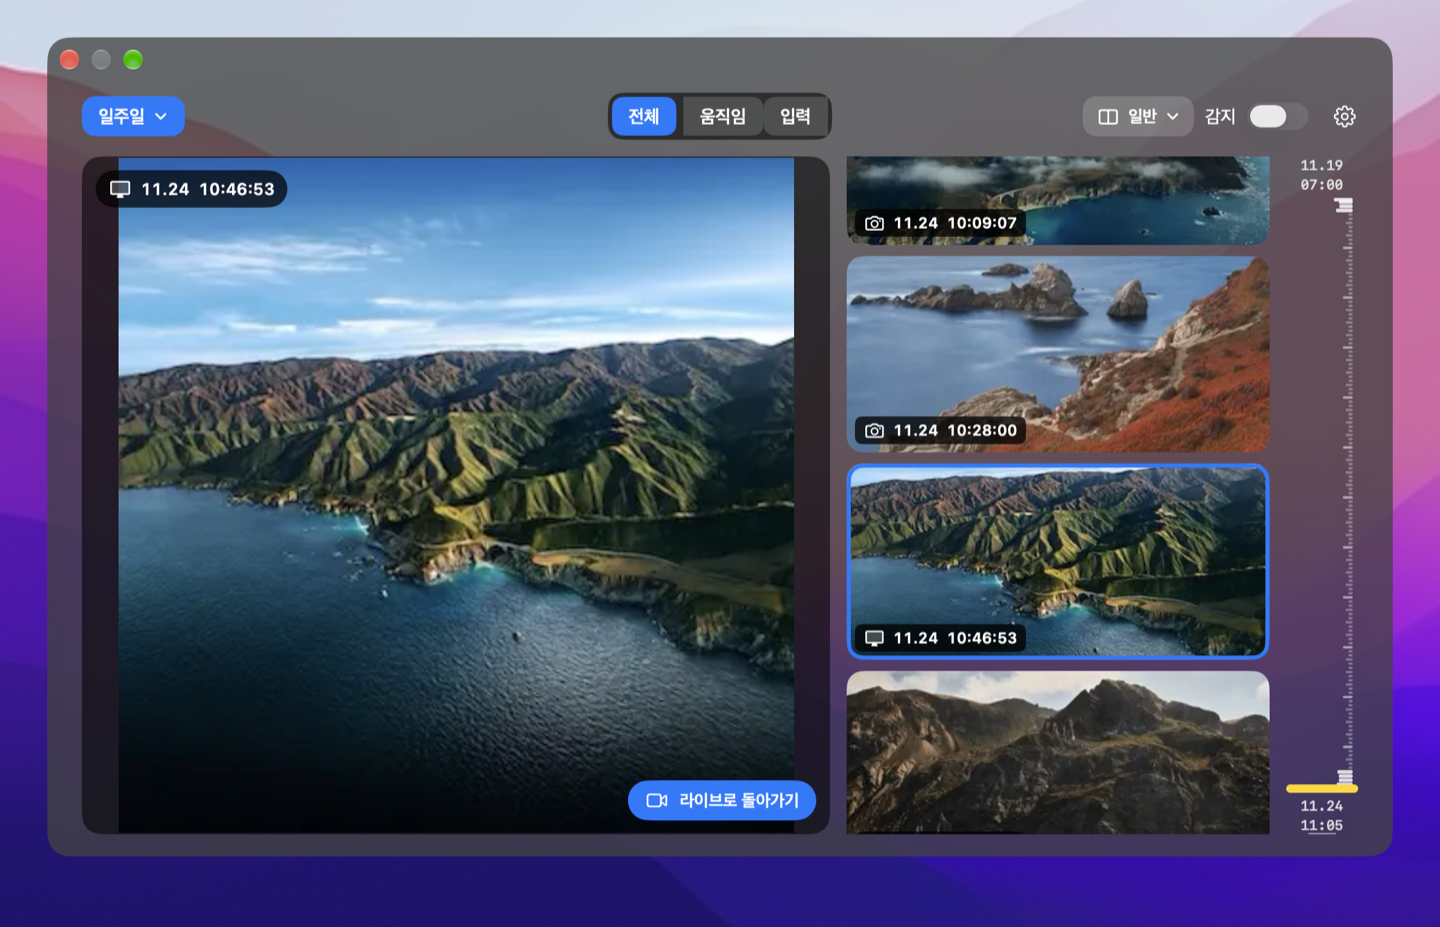
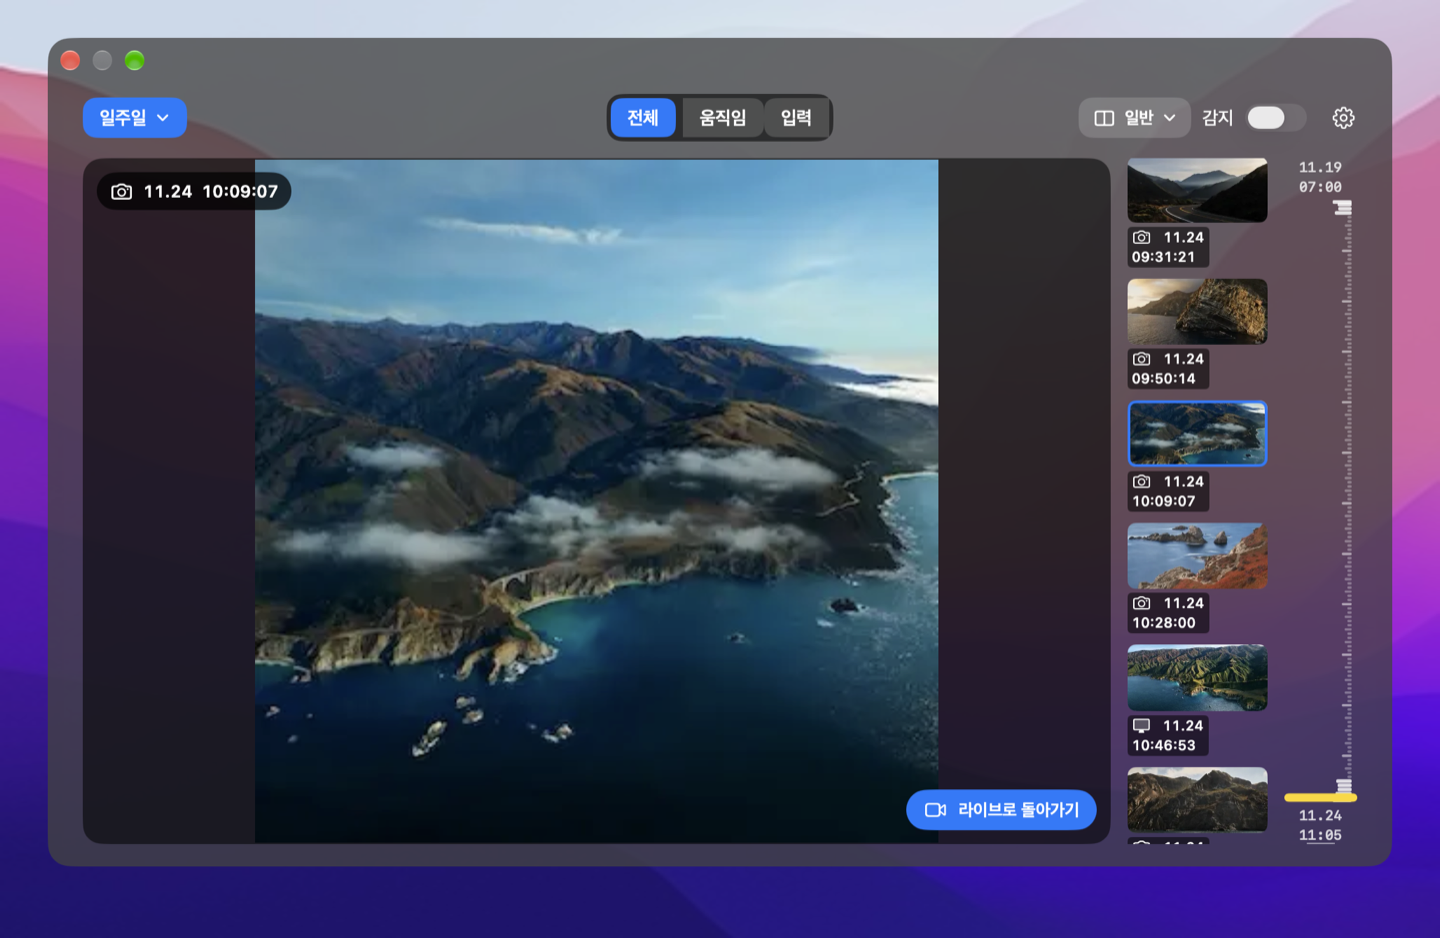
자리기록 0.3.1 일반 모드 오른쪽 사진을 3분의 1로 축소

diff --git a/Sources/StandardGallery.swift b/Sources/StandardGallery.swift
@@ -11,11 +11,12 @@ struct StandardGallery: View {
 
     var body: some View {
         GeometryReader { area in
+            let thumbnail = GalleryLayout.standardThumbnailSize(in: area.size.width)
             ScrollViewReader { scroll in
                 HStack(spacing: GalleryLayout.gap) {
                     viewer
-                    archive
-                        .frame(width: max(165, (area.size.width - 74) * 0.36))
+                    archive(thumbnail: thumbnail)
+                        .frame(width: thumbnail.width)
                     TimeRuler(index: index, pinned: selected ?? index.chronological.last,
                               hover: { _ in }, choose: { item in
                         selected = item
@@ -43,7 +44,7 @@ struct StandardGallery: View {
         if let last = index.chronological.last { scroll.scrollTo(last.id, anchor: .bottom) }
     }
 
-    private var archive: some View {
+    private func archive(thumbnail: CGSize) -> some View {
         GeometryReader { viewport in
             if index.chronological.isEmpty {
                 VStack(spacing: 8) {
@@ -56,8 +57,11 @@ struct StandardGallery: View {
                     LazyVStack(spacing: 8) {
                         ForEach(index.chronological) { item in
                             Button { selected = item } label: {
-                                RecordThumbnail(record: item, selected: selected == item, showDate: true)
-                                    .frame(height: min(142, viewport.size.width * 0.48))
+                                VStack(alignment: .leading, spacing: 3) {
+                                    RecordThumbnail(record: item, selected: selected == item, showsTimeOverlay: false)
+                                        .frame(width: thumbnail.width, height: thumbnail.height)
+                                    timestamp(for: item)
+                                }.contentShape(Rectangle())
                             }
                             .buttonStyle(.plain).id(item.id)
                             .accessibilityLabel(item.kind.eventName + " " + ArchiveText.fullStamp.string(from: item.date))
@@ -72,6 +76,24 @@ struct StandardGallery: View {
                 .scrollIndicators(.hidden)
             }
         }
+    }
+
+    private func timestamp(for item: CaptureRecord) -> some View {
+        ViewThatFits(in: .horizontal) {
+            HStack(spacing: 3) {
+                Image(systemName: item.kind.symbol)
+                Text(ArchiveText.day.string(from: item.date))
+                Text(ArchiveText.clock.string(from: item.date))
+            }.fixedSize()
+            VStack(alignment: .leading, spacing: 1) {
+                Label(ArchiveText.day.string(from: item.date), systemImage: item.kind.symbol)
+                Text(ArchiveText.clock.string(from: item.date))
+            }.fixedSize()
+        }
+        .font(.system(size: 10, weight: .medium)).monospacedDigit()
+        .foregroundStyle(.white)
+        .padding(.horizontal, 3).padding(.vertical, 1)
+        .background(.black.opacity(0.55), in: RoundedRectangle(cornerRadius: 3))
     }
 
     private var viewer: some View {

diff --git a/Sources/ArchiveBrowser.swift b/Sources/ArchiveBrowser.swift
@@ -84,24 +84,26 @@ struct ArchiveBrowser: View {
 struct RecordThumbnail: View {
     let record: CaptureRecord
     let selected: Bool
-    var showDate = false
+    var showsTimeOverlay = true
 
     var body: some View {
-        let shape = RoundedRectangle(cornerRadius: 12, style: .continuous)
+        let shape = RoundedRectangle(cornerRadius: showsTimeOverlay ? 12 : 6, style: .continuous)
         shape.fill(GlassInk.capsule)
             .overlay { FileImage(url: record.url, detail: false) }
             .clipShape(shape)
             .overlay(alignment: .bottomLeading) {
-                HStack(spacing: 5) {
-                    Image(systemName: record.kind.symbol)
-                    Text((showDate ? ArchiveText.fullStamp : ArchiveText.clock).string(from: record.date))
+                if showsTimeOverlay {
+                    HStack(spacing: 5) {
+                        Image(systemName: record.kind.symbol)
+                        Text(ArchiveText.clock.string(from: record.date))
+                    }
+                    .font(.system(size: 10, weight: .semibold)).monospacedDigit()
+                    .lineLimit(1).padding(.horizontal, 6).padding(.vertical, 3)
+                    .background(.black.opacity(0.76), in: RoundedRectangle(cornerRadius: 5))
+                    .padding(6)
                 }
-                .font(.system(size: showDate ? 11 : 10, weight: .semibold)).monospacedDigit()
-                .lineLimit(1).padding(.horizontal, 6).padding(.vertical, 3)
-                .background(.black.opacity(0.76), in: RoundedRectangle(cornerRadius: 5))
-                .padding(6)
             }
-            .overlay { if selected { shape.strokeBorder(GlassInk.blue, lineWidth: 3) } }
+            .overlay { if selected { shape.strokeBorder(GlassInk.blue, lineWidth: showsTimeOverlay ? 3 : 2) } }
             .contentShape(shape)
     }
 }

diff --git a/Tests/Checks.swift b/Tests/Checks.swift
@@ -254,6 +254,16 @@ struct Checks {
                    "new capture preserves historical selection and reading position")
         try click(CGPoint(x: frame.minX - 95, y: frame.minY + 25))
         try expect(try markerRow(snapshot()) == liveMark, "return to live restores the latest-record marker")
+        for (width, expected) in [(680, 66), (961, 100), (1440, 158), (960, 100)] {
+            window.setContentSize(CGSize(width: CGFloat(width), height: size.height))
+            settle()
+            try expect(abs(scroll.frame.width - CGFloat(expected)) < 0.01,
+                       "right archive uses even one-third width at " + String(width) + " points")
+            let thumbnail = GalleryLayout.standardThumbnailSize(in: CGFloat(width) - 2 * GalleryLayout.inset)
+            let previous = (CGFloat(width) - 2 * GalleryLayout.inset - 74) * 0.36
+            try expect(abs(thumbnail.height / thumbnail.width - min(142 / previous, 0.48)) < 0.00001,
+                       "thumbnail preserves the original aspect at " + String(width) + " points")
+        }
     }
 
     @MainActor

diff --git a/Sources/ArchiveStyle.swift b/Sources/ArchiveStyle.swift
@@ -28,6 +28,14 @@ enum GalleryLayout {
     static let inset: CGFloat = 25
     static let gap: CGFloat = 12
     static let photoSize = CGSize(width: 132, height: 87)
+    // Scale the full-size strip and its capped height together after snapping to even points.
+    static func standardThumbnailSize(in contentWidth: CGFloat) -> CGSize {
+        let fullWidth = max(165, (contentWidth - 74) * 0.36)
+        let fullHeight = min(142, fullWidth * 0.48)
+        let width = ((fullWidth / 3) / 2).rounded() * 2
+        return CGSize(width: width, height: fullHeight * width / fullWidth)
+    }
+
     static let rulerHeight: CGFloat = 31
     static let clockHeight: CGFloat = 13
     // Header (8+34), two gaps, photo, ruler, clock spacing and bottom inset.

diff --git a/README.md b/README.md
@@ -4,7 +4,7 @@
 
 **macOS 14 이상 · Apple Silicon 및 Intel 지원**
 
-[자리기록 0.3.0 설치 파일 받기](https://github.com/sundaynighttt/desk-trace/releases/download/v0.3.0/DeskTrace-0.3.0.dmg) · [릴리스 기록](https://github.com/sundaynighttt/desk-trace/releases)
+[자리기록 0.3.1 설치 파일 받기](https://github.com/sundaynighttt/desk-trace/releases/download/v0.3.1/DeskTrace-0.3.1.dmg) · [릴리스 기록](https://github.com/sundaynighttt/desk-trace/releases)
 
 ![시험용 사진으로 본 일반 모드. 왼쪽에 선택한 사진이 크게 보이고 오른쪽에 촬영 시각이 표시된 목록과 세로 시간 눈금이 있습니다.](docs/gallery.png)
 
@@ -30,6 +30,8 @@
 
 <details>
 <summary>화면 설계 기준</summary>
+
+일반 모드의 오른쪽 저장 사진은 같은 창에서 0.3.0 사진 폭의 1/3에 가장 가까운 짝수 포인트로 표시합니다. 높이도 같은 비율로 줄입니다. 창 폭이 960포인트일 때 사진은 약 100 × 47포인트입니다. 촬영 날짜와 시각은 사진 바로 아래에 항상 표시하고, 좁은 창에서는 두 줄로 나눕니다.
 
 가운데 필터는 더 어두운 배경 하나로 감쌉니다. 전체 버튼 옆에는 움직임과 입력을 붙이고, 움직임 버튼의 오른쪽 모서리와 입력 버튼의 왼쪽 모서리만 둥글게 합니다. 미니 모드의 기본 창에는 약 7장의 사진이 보입니다. 상단 버튼과 사진, 사진과 물결 눈금 영역 사이의 간격은 각각 12포인트입니다. 사진 줄과 시간 눈금의 좌우 여백은 상단과 같은 25포인트입니다. 지난번 창을 높게 늘려 두었어도 다음 실행에서는 한 줄 높이로 시작하며, 연 뒤에는 크기를 조절할 수 있습니다. 기간 버튼 왼쪽과 설정 버튼 오른쪽에 같은 여백을 둡니다. 배경은 어두운 반투명이고, 선택한 필터는 파란색, 나머지는 반투명 회색입니다. 시스템에서 투명도 줄이기를 켜면 단색 배경을 사용하고, 동작 줄이기를 켜면 시간 눈금의 물결 높이를 고정합니다. 빈 목록, 필터 결과 없음, 한 장, 같은 시각의 여러 기록을 모두 지원합니다.
 
@@ -59,6 +61,6 @@
 ./scripts/package.sh
 ```
 
-빌드 시 공식 libwebp 소스를 내려받아 고정된 SHA-256 값을 확인합니다. 완성된 앱에는 인코더가 포함됩니다. 설치하는 맥에는 위 개발 도구가 필요하지 않습니다. 기본 산출물은 `.build/자리기록.app`과 `.build/DeskTrace-0.3.0.dmg`입니다. Apple Silicon과 Intel용 코드를 함께 포함합니다. 위 명령은 로컬 시험용 서명을 사용합니다. 공개 배포용 DMG는 빌드 후 `DESKTRACE_SIGN_IDENTITY`에 Developer ID Application 인증서를, `DESKTRACE_NOTARY_PROFILE`에 Apple 공증용 키체인 프로필 이름을 지정하고 `./scripts/release.sh`를 실행하면 생성됩니다. 스크립트는 앱과 DMG에 서명하고 Apple 공증을 받은 뒤 공증 확인표를 첨부해 검증합니다.
+빌드 시 공식 libwebp 소스를 내려받아 고정된 SHA-256 값을 확인합니다. 완성된 앱에는 인코더가 포함됩니다. 설치하는 맥에는 위 개발 도구가 필요하지 않습니다. 기본 산출물은 `.build/자리기록.app`과 `.build/DeskTrace-0.3.1.dmg`입니다. Apple Silicon과 Intel용 코드를 함께 포함합니다. 위 명령은 로컬 시험용 서명을 사용합니다. 공개 배포용 DMG는 빌드 후 `DESKTRACE_SIGN_IDENTITY`에 Developer ID Application 인증서를, `DESKTRACE_NOTARY_PROFILE`에 Apple 공증용 키체인 프로필 이름을 지정하고 `./scripts/release.sh`를 실행하면 생성됩니다. 스크립트는 앱과 DMG에 서명하고 Apple 공증을 받은 뒤 공증 확인표를 첨부해 검증합니다.
 
 WebP 라이브러리의 저작권 및 특허 안내는 `Notices/`와 앱 번들의 Resources에 포함됩니다.
